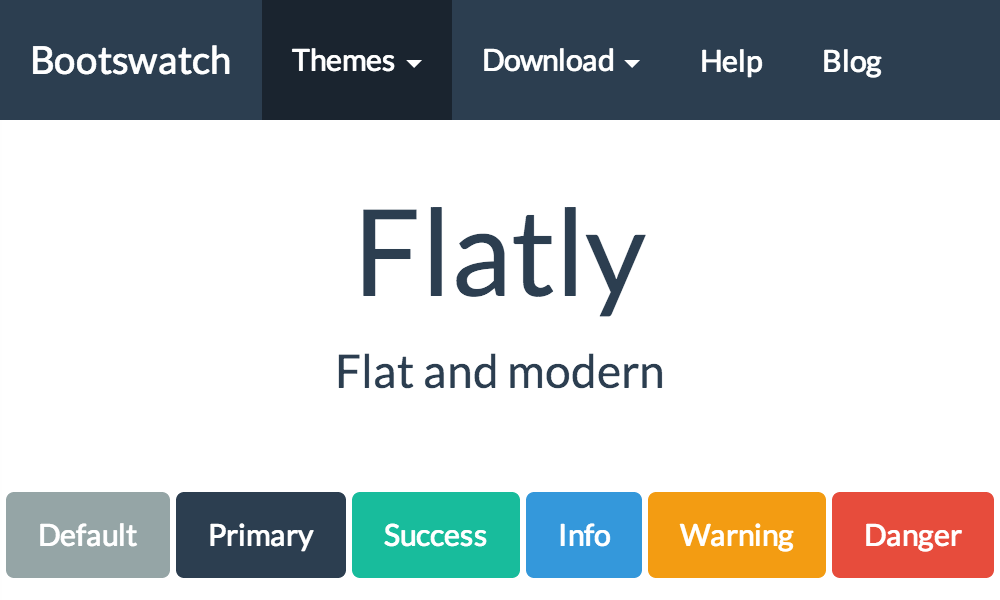
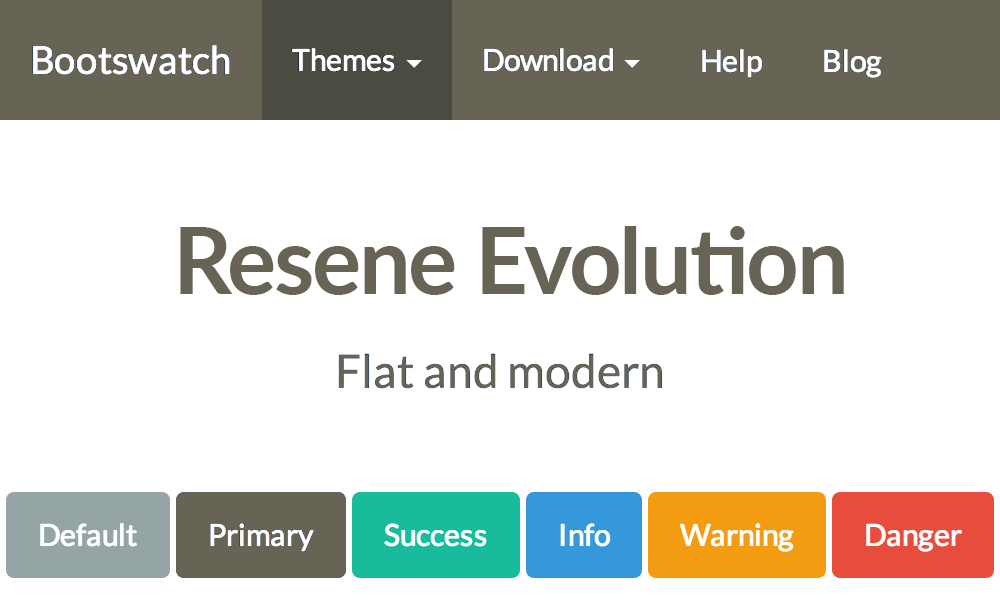
enh(theme): add ressene evolution theme

diff --git a/theme_tpp/static/src/less/flatly/variables.less b/theme_tpp/static/src/less/flatly/variables.less
@@ -7,17 +7,17 @@
 //
 //## Gray and brand colors for use across Bootstrap.
 
-@gray-darker:            lighten(#000, 13.5%); // #222
-@gray-dark:              #7b8a8b;   // #333
-@gray:                   #95a5a6; // #555
-@gray-light:             #b4bcc2;   // #999
-@gray-lighter:           #ecf0f1; // #eee
+@gray-darker:            darken(@body-bg, 80%);    // #222
+@gray-dark:              darken(@body-bg, 60%);    // #333
+@gray:                   darken(@body-bg, 45%);    // #555
+@gray-light:             darken(@body-bg, 30%);    // #999 Resene Dusted Blue
+@gray-lighter:           darken(@body-bg, 15%);    // #eee	
 
-@brand-primary:         #2C3E50;
-@brand-success:         #18BC9C;
-@brand-info:            #3498DB;
-@brand-warning:         #F39C12;
-@brand-danger:          #E74C3C;
+@brand-primary:         #676455;    // Resene Evolution 
+@brand-success:         #52814e;    // Resene Seachange shifted green
+@brand-info:            #4E6E81;    // Resene Seachange 
+@brand-warning:         #ae8c1d;    // Resene Ayers Rock shifted yellow
+@brand-danger:          #AE451D;    // Resene Ayers Rock
 
 
 //== Scaffolding
@@ -25,14 +25,15 @@
 //## Settings for some of the most global styles.
 
 //** Background color for `<body>`.
-@body-bg:               #fff;
+@body-bg:               lighten(#ebe9e4, 5%);    // Resene Quarter Alabaster 
+
 //** Global text color on `<body>`.
 @text-color:            @brand-primary;
 
 //** Global textual link color.
 @link-color:            @brand-success;
-//** Link hover color set via `darken()` function.
-@link-hover-color:      @link-color;
+//** Link hover color set via `darken()` function. See line 352 for navbar link hover color
+@link-hover-color:      darken(@link-color, 15%);
 
 
 //== Typography
@@ -40,12 +41,12 @@
 //## Font, line-height, and color for body text, headings, and more.
 
 @font-family-sans-serif:  "Lato", "Helvetica Neue", Helvetica, Arial, sans-serif;
-@font-family-serif:       Georgia, "Times New Roman", Times, serif;
+@font-family-serif:       "Forum", "Times New Roman", Times, serif;
 //** Default monospace fonts for `<code>`, `<kbd>`, and `<pre>`.
 @font-family-monospace:   Menlo, Monaco, Consolas, "Courier New", monospace;
 @font-family-base:        @font-family-sans-serif;
 
-@font-size-base:          15px;
+@font-size-base:          16px;
 @font-size-large:         ceil((@font-size-base * 1.25)); // ~18px
 @font-size-small:         ceil((@font-size-base * 0.85)); // ~12px
 
@@ -62,7 +63,7 @@
 @line-height-computed:    floor((@font-size-base * @line-height-base)); // ~20px
 
 //** By default, this inherits from the `<body>`.
-@headings-font-family:    @font-family-base;
+@headings-font-family:    @font-family-serif;
 @headings-font-weight:    400;
 @headings-line-height:    1.1;
 @headings-color:          inherit;
@@ -180,7 +181,7 @@
 //** Text color for `<input>`s
 @input-color:                    @text-color;
 //** `<input>` border color
-@input-border:                   #dce4ec;
+@input-border:                   #ccc;
 //** `<input>` border radius
 @input-border-radius:            @border-radius-base;
 //** Border color for inputs on focus
@@ -348,7 +349,7 @@
 
 // Navbar links
 @navbar-default-link-color:                #fff;
-@navbar-default-link-hover-color:          @brand-success;
+@navbar-default-link-hover-color:          lighten(@link-color, 30%);
 @navbar-default-link-hover-bg:             transparent;
 @navbar-default-link-active-color:         #fff;
 @navbar-default-link-active-bg:            darken(@navbar-default-bg, 10%);

diff --git a/theme_tpp/static/src/less/flatly/fix.css b/theme_tpp/static/src/less/flatly/fix.css
@@ -1,3 +1,61 @@
-#web_editor-top-edit a.btn-link {
+/* #web_editor-top-edit a.btn-link {
     color: #2c3e50;
+} */
+
+/* Footer background color */
+#wrapwrap footer {
+    background-color: #d5d1c7;    
+
+}
+/* Text description in product items */
+.oe_product section .text-info {
+    color: #8b8b8b;
+}
+/* Checkout Step Wizard Text Success links */
+.wizard a.text-success {
+    color: #52814e;             /* brand-success */
+}
+
+/* make responsive images take the full width of the container */
+.img.img-responsive {
+    width: 100%;    
+}
+/* Navbar Brand Font */
+a.navbar-brand {
+    font-size: 26px;
+    font-weight: 500;
+}
+/* Product items in the store */
+/* border between items in the grid */
+td.oe_product {
+    border-width: 20px;
+    border-color: rgb(0,0,0,0);
+}
+/* product image not absolutely positioned*/
+td.oe_product div.oe_product_cart div.oe_product_image {
+    position: static;
+}
+/* product image takes up full width of cell and height as neccessary */
+td.oe_product div.oe_product_cart div.oe_product_image img.img.img-responsive {
+    position: static;
+    max-height: none;
+    width: 100%;
+}
+/* product title, descr, price below the image (not on top) */
+td.oe_product div.oe_product_cart section {
+    position: static;
+}
+/* product grid when collapsed shows full picture */
+div#products_grid td.oe_product.oe_grid {
+    height: 100%;
+}
+div#products_grid .col-md-12 td.oe-height-2 {
+    height: 100%;
+}
+div#products_grid tbody {
+    vertical-align: top;
+}
+/* product image on product page shows full width and height */
+div#o-carousel-product div.carousel-inner div.item {
+    height: 100%;
 }

diff --git a/theme_tpp/static/src/less/amelia/fix.css b/theme_tpp/static/src/less/amelia/fix.css
@@ -26,6 +26,9 @@ ul.wizard .text-success {
 .input-group-addon .fa {
     color: #444;
 }
+
+
+
 /* make responsive images take the full width of the container */
 .img.img-responsive {
     width: 100%;    
@@ -39,7 +42,7 @@ a.navbar-brand {
     font-size: 26px;
     font-weight: 500;
 }
-/* Product itemss in the store */
+/* Product items in the store */
 /* border between items in the grid */
 td.oe_product {
     border-width: 20px;

diff --git a/theme_tpp/static/src/less/flatly/bootswatch.less b/theme_tpp/static/src/less/flatly/bootswatch.less
@@ -1,8 +1,8 @@
-// Flatly 3.2.0
+// Flatly > Resene Evolution 3.2.0
 // Bootswatch
 // -----------------------------------------------------
 
-@import url("//fonts.googleapis.com/css?family=Lato:400,700,400italic");
+@import url("//fonts.googleapis.com/css?family=Forum|Lato:400,700");
 
 // Navbar =====================================================================
 

diff --git a/theme_tpp/static/src/less/cosmo/bootswatch.less b/theme_tpp/static/src/less/cosmo/bootswatch.less
@@ -1,4 +1,4 @@
-// Cosmo 3.2.0
+// Cosmo > The Posy Supply Co
 // Bootswatch
 // -----------------------------------------------------
 
